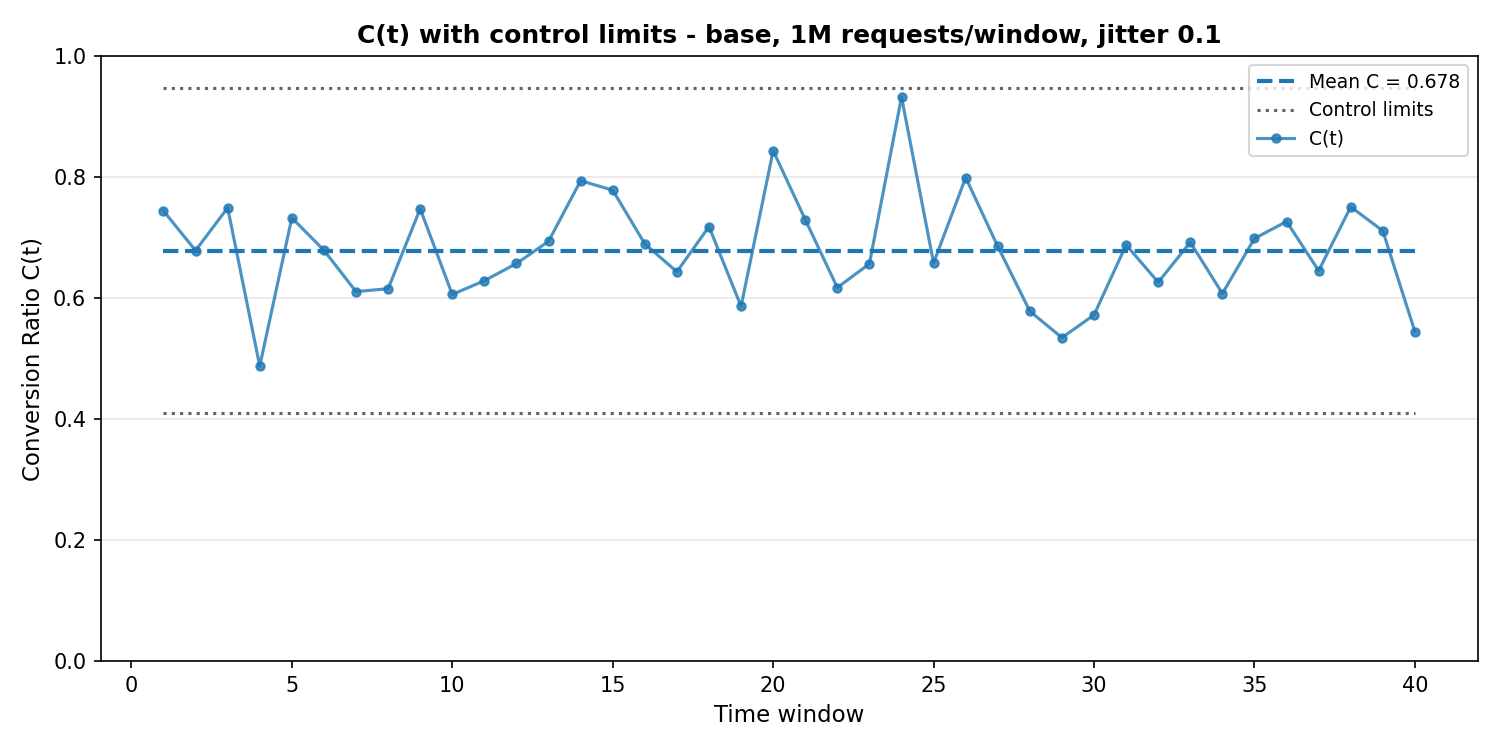
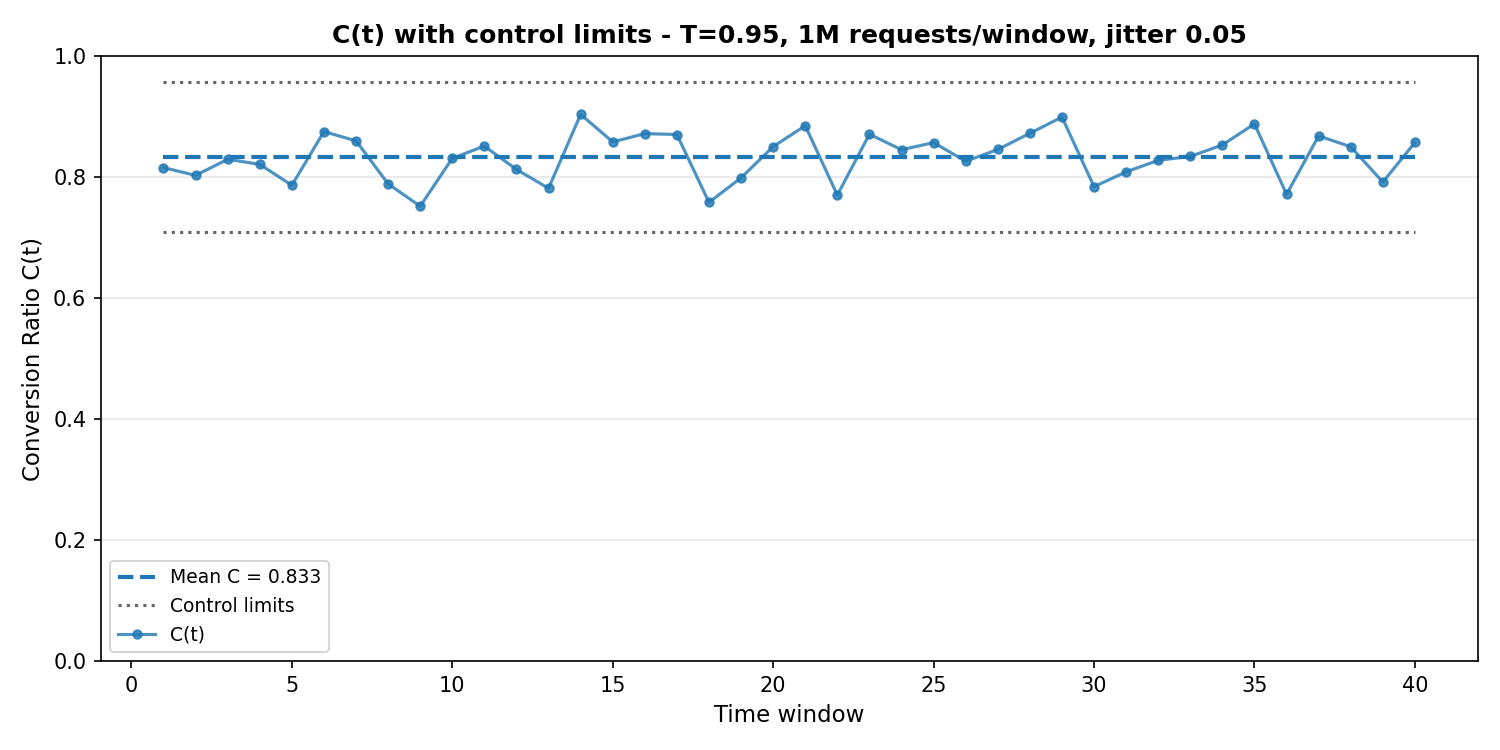
jitter volume

diff --git a/src/metrics_demo.py b/src/metrics_demo.py
@@ -465,22 +465,26 @@ if __name__ == "__main__":
 		jitter=0.0,
 	)
 
-	# Same base, but with additional per-window jitter on each T_i
+	# Same base but with higher success rate (0.95) and jitter scenarios
+	jitter_transitions = [0.95, 0.95, 0.95, 1.0]
+	jitter_low = FlowScenario(name="Jitter 0.95, 100 req", A1=100, transitions=jitter_transitions)
+	jitter_high = FlowScenario(name="Jitter 0.95, 1M req", A1=1_000_000, transitions=jitter_transitions)
+	
 	sim_base_low_jitter = SimulationScenario(
-		name="Base, 100 req, jitter 0.1",
-		base=base_low,
+		name="Base, 100 req, jitter 0.05",
+		base=jitter_low,
 		base_length=40,
-		test=base_low,
+		test=jitter_low,
 		test_length=0,
-		jitter=0.1,
+		jitter=0.05,
 	)
 	sim_base_high_jitter = SimulationScenario(
-		name="Base, 1M req, jitter 0.1",
-		base=base_high,
+		name="Base, 1M req, jitter 0.05",
+		base=jitter_high,
 		base_length=40,
-		test=base_high,
+		test=jitter_high,
 		test_length=0,
-		jitter=0.1,
+		jitter=0.05,
 	)
 
 	# Test-failure scenarios: T2 success drops to 0.8 (10% degradation) in the test phase
@@ -523,12 +527,12 @@ if __name__ == "__main__":
 	plot_C_with_limits(
 		sim_base_low_jitter,
 		filename="images/plot9.png",
-		title="C(t) with control limits - base, 100 requests/window, jitter 0.1",
+		title="C(t) with control limits - T=0.95, 100 requests/window, jitter 0.05",
 	)
 	plot_C_with_limits(
 		sim_base_high_jitter,
 		filename="images/plot10.png",
-		title="C(t) with control limits - base, 1M requests/window, jitter 0.1",
+		title="C(t) with control limits - T=0.95, 1M requests/window, jitter 0.05",
 	)
 	plot_C_with_limits(
 		sim_fail_low,

diff --git a/README.md b/README.md
@@ -154,7 +154,7 @@ Production systems aren't perfectly stable. Step success rates vary slightly win
 - Time-of-day effects
 - Network conditions
 
-We model this as **jitter**: each $T_i$ varies randomly within $\pm 0.1$ around its nominal value per window.
+To demonstrate this, we'll use a healthier baseline flow ($T_i = 0.95$, giving $C \approx 86\%$) with **jitter**: each $T_i$ varies randomly within $\pm 0.05$ around its nominal value per window. This creates realistic operational variability while keeping the underlying mean constant.
 
 #### 3.1 Timing noise in a single transition
 
@@ -164,17 +164,17 @@ Before looking at full flows, let's see what happens to a single transition $T_1
 
 #### 3.2 Low volume with jitter
 
-![C(t) with control limits – base, 100 requests, jitter 0.1](images/plot9.png)
+![C(t) with control limits – base, 100 requests, jitter 0.05](images/plot9.png)
 
-With 100 requests per window plus realistic jitter, $C(t)$ becomes quite noisy. Several windows drift near or beyond the control limits even though nothing is fundamentally broken. This is why low-traffic flows need careful alerting rules—maybe "3 consecutive windows below threshold" instead of "any single window."
+With 100 requests per window plus realistic jitter ($\pm 5\%$ on each step), $C(t)$ becomes quite noisy. The mean stays around 86% as expected, but individual windows vary significantly. Control limits are wide to accommodate this natural variation. Several windows might drift near the limits even though the underlying flow hasn't changed. This is why low-traffic flows need careful alerting rules—maybe "3 consecutive windows below threshold" instead of "any single window."
 
 #### 3.3 High volume with jitter
 
-![C(t) with control limits – base, 1M requests, jitter 0.1](images/plot10.png)
+![C(t) with control limits – base, 1M requests, jitter 0.05](images/plot10.png)
 
-Same amount of jitter, but with 1M requests per window. The variation barely registers—almost all points stay comfortably within the control band. High volume **averages out** the jitter, making the signal reliable even when individual steps vary a bit.
+Same flow, same jitter ($\pm 5\%$ per step), but with 1M requests per window. The mean is still ~86%, and now the variation barely registers—almost all points cluster tightly around the mean. Control limits are much tighter. High volume **averages out** the jitter, making the signal reliable even when individual steps vary a bit.
 
-**Takeaway**: Jitter and timing effects hurt most at low volume. High volume makes your metrics robust to normal operational variation.
+**Takeaway**: With the same underlying flow and variability, higher volume gives you tighter control limits and more stable measurements. This makes your metrics robust to normal operational variation and lets you detect smaller degradations.
 
 ---
 
